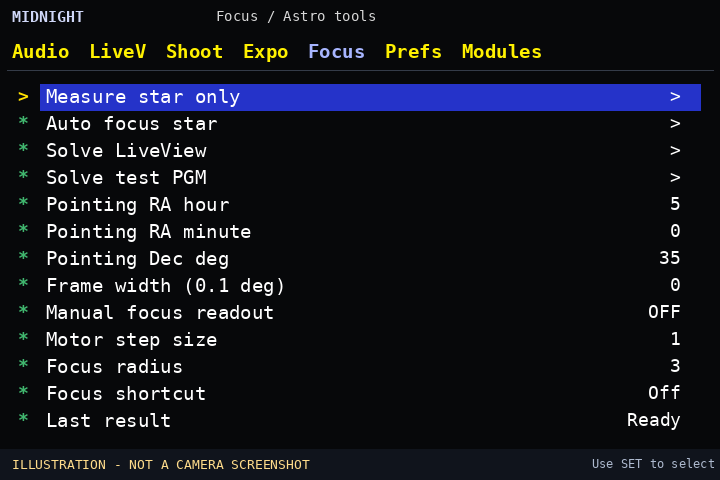
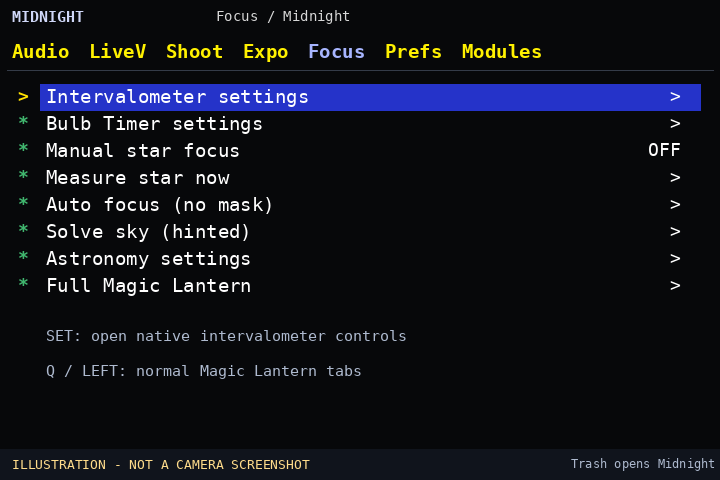
Open astronomy-first Midnight menu, link intervalometer and bulb timer, document blind-solve limitations

diff --git a/modules/astro/astro.c b/modules/astro/astro.c
@@ -329,6 +329,24 @@ static void start_action(int action)
         busy=0;
     }
 }
+/* Jump to the original Magic Lantern controls. Never duplicate its
+ * intervalometer/long-exposure config or replace the core shooting logic.
+ * Q/back from these submenus returns to their native tabs. */
+static MENU_SELECT_FUNC(open_intervalometer)
+{
+    select_menu_by_name("Intervalometer","Take a pic every");
+    menu_redraw();
+}
+static MENU_SELECT_FUNC(open_bulb_timer)
+{
+    select_menu_by_name("Bulb Timer","Exposure duration");
+    menu_redraw();
+}
+static MENU_SELECT_FUNC(open_normal_menus)
+{
+    select_menu_by_name("Shoot","Intervalometer");
+    menu_redraw();
+}
 static MENU_SELECT_FUNC(start_focus) { start_action(1); }
 static MENU_SELECT_FUNC(start_solve) { start_action(2); }
 static MENU_SELECT_FUNC(start_test) { start_action(3); }
@@ -354,37 +372,50 @@ static unsigned int astro_keypress(unsigned int key)
 }
 static struct menu_entry astro_menu[] = {
     {
-        .name="Astro tools",
-        .help="Experimental star autofocus and hinted plate solving.",
+        .name="Midnight",
+        .help="Astrophotography home. Q/LEFT returns to the standard tabs.",
         .children=(struct menu_entry[]) {
-            { .name="Measure star only", .select=start_measure,
-              .help="Read-only star detection and sharpness, no motor movement.",
+            { .name="Intervalometer settings", .select=open_intervalometer,
+              .help="Jump to ML's existing intervalometer and exposure interval.",
               .icon_type=IT_ACTION },
-            { .name="Auto focus star", .select=start_focus,
-              .help="5x/10x LiveView, bright centered star, lens AF switch ON.",
+            { .name="Bulb Timer settings", .select=open_bulb_timer,
+              .help="Jump to ML's existing bulb exposure timer.",
               .icon_type=IT_ACTION },
-            { .name="Solve LiveView", .select=start_solve,
-              .help="Use 1x LiveView; enter approximate RA/Dec and FOV first.",
+            { .name="Manual star focus", .priv=&focus_overlay,.min=0,.max=1,
+              .help="LiveView sharpness score, no motor. Use a bright star at 5x/10x." },
+            { .name="Measure star now", .select=start_measure,
+              .help="Read-only one-shot sharpness check; never moves a lens.",
               .icon_type=IT_ACTION },
-            { .name="Solve test PGM", .select=start_test,
-              .help="Load B:/ML/ASTRO/TEST.PGM and STARS.BIN.",
+            { .name="Auto focus (no mask)", .select=start_focus,
+              .help="Electronic lens only; uses star sharpness, NOT Bahtinov spikes.",
               .icon_type=IT_ACTION },
-            { .name="Pointing RA hour", .priv=&hint_rah, .min=0,.max=23 },
-            { .name="Pointing RA minute", .priv=&hint_ram,.min=0,.max=59 },
-            { .name="Pointing Dec deg", .priv=&hint_dec,.min=-85,.max=85 },
-            { .name="Frame width (0.1 deg)",.priv=&fov10,.min=0,.max=300,
-              .help="0 = auto from lens metadata. Otherwise set manual 1-30 deg." },
-            { .name="Manual focus readout",.priv=&focus_overlay,.min=0,.max=1,
-              .help="Measure one star each second. No AF motor required." },
-            { .name="Motor step size",.priv=&focus_step,.min=1,.max=3 },
-            { .name="Focus radius",.priv=&scan_radius,.min=1,.max=6 },
-            { .name="Focus shortcut",.priv=&shortcut,.min=0,.max=2,
-              .choices=CHOICES("Off","Double half-press","INFO button"),
-              .help="OFF by default. Disable conflicting shortcut features." },
-            { .name="Last result",.update=astro_status,.icon_type=IT_ACTION },
+            { .name="Solve sky (hinted)", .select=start_solve,
+              .help="Current solver still requires a rough RA/Dec hint. Blind solving under development.",
+              .icon_type=IT_ACTION },
+            { .name="Astronomy settings", .children=(struct menu_entry[]) {
+                { .name="Solve test PGM", .select=start_test,
+                  .help="Use the included synthetic image to test the solver.",
+                  .icon_type=IT_ACTION },
+                { .name="Pointing RA hour", .priv=&hint_rah, .min=0,.max=23 },
+                { .name="Pointing RA minute", .priv=&hint_ram,.min=0,.max=59 },
+                { .name="Pointing Dec deg", .priv=&hint_dec,.min=-85,.max=85 },
+                { .name="Frame width (0.1 deg)",.priv=&fov10,.min=0,.max=300,
+                  .help="0=auto if the lens reports focal length. Otherwise set manual 1-30 deg." },
+                { .name="Motor step size",.priv=&focus_step,.min=1,.max=3 },
+                { .name="Focus radius",.priv=&scan_radius,.min=1,.max=6 },
+                { .name="Focus shortcut",.priv=&shortcut,.min=0,.max=2,
+                  .choices=CHOICES("Off","Double half-press","INFO button"),
+                  .help="OFF by default; avoid conflicts with standard controls." },
+                { .name="Last result",.update=astro_status,.icon_type=IT_ACTION },
+                MENU_EOL
+            } },
+            { .name="Full Magic Lantern", .select=open_normal_menus,
+              .help="Leave the Midnight dashboard and show the original shooting menus.",
+              .icon_type=IT_ACTION },
             MENU_EOL
         },
-        .icon_type=IT_SUBMENU
+        .icon_type=IT_SUBMENU,
+        .submenu_width=710,
     },
 };
 static unsigned int astro_init(void)

diff --git a/README.md b/README.md
@@ -1,66 +1,66 @@
 # Midnight
 
-Star focusing and plate solving for [Magic Lantern](https://github.com/reticulatedpines/magiclantern_simplified) on **Canon 600D (firmware 1.0.2)** and **Canon 6D (firmware 1.1.6)**.
+An astronomy-first interface for [Magic Lantern](https://github.com/reticulatedpines/magiclantern_simplified) on **Canon 600D (1.0.2)** and **Canon 6D (1.1.6)**.
 
-> **Experimental:** Neither camera has been hardware-tested. Use a spare SD card and keep your working Magic Lantern card unchanged. Start with the read-only focusing tools.
+**Experimental:** Not tested on physical cameras. Use a spare SD card and keep your existing working Magic Lantern card.
 
 ## Install
 
-1. On the camera, check **Menu → Firmware Ver.** Only the versions above are supported.
-2. Back up your card. Download the matching ZIP from the [Midnight release](https://github.com/mistrjirka/midnight/releases/tag/v0.1.0-alpha.1).
-3. **Already using Magic Lantern?** Extract the **entire ZIP** to the root of a **spare Magic Lantern-bootable SD card**, replacing the existing Magic Lantern files. Do not run the installer again.
-4. **Starting with a new card?** Format the spare SD card in the camera, extract the ZIP to its root, then run **Menu → Firmware Ver. → Firmware Update** in **M mode** to start the included **ML-SETUP.FIR**. Follow the installer instructions and restart. This is Magic Lantern setup, not a Canon firmware upgrade.
-5. Open Magic Lantern with the **Delete/Trash** button. Under **Modules**, enable **astro**, then restart the camera.
+1. Check your camera version under **Canon MENU → Firmware Ver.**
+2. Download the matching ZIP from the [Midnight release](https://github.com/mistrjirka/midnight/releases/tag/v0.2.0-alpha.1).
+3. **Already have Magic Lantern?** Extract the **entire ZIP** onto a spare, bootable Magic Lantern SD card. Replace the existing Magic Lantern files. Do not rerun the installer.
+4. **Fresh card?** Format it in the camera, extract the ZIP at the SD-card root, then use **MENU → Firmware Ver. → Firmware Update** in **M mode** to run **ML-SETUP.FIR**. Follow its instructions and restart. This installs the Magic Lantern boot setup, not a Canon firmware update.
+5. Press **Trash/Delete** to open Magic Lantern, enable **astro** in **Modules**, and restart.
 
-The ZIP already contains **astro.mo**, the matching camera symbol file, the star catalog (**ML/ASTRO/STARS.BIN**), and a test image. Do not copy just the module into an unrelated Magic Lantern build.
+**After enabling astro, Trash opens Midnight first.** The original Magic Lantern menus are still available by pressing **Q/Left** or choosing **Full Magic Lantern**. Shutter, playback and essential Canon buttons remain unchanged.
 
-## Use the new features
+## Midnight home menu
 
-Open **Magic Lantern → Focus → Astro tools**.
+<img src="docs/images/astro-tools-menu.png" alt="Mockup of Midnight dashboard with intervalometer, bulb timer, focus and plate solving" width="600">
 
-<img src="docs/images/astro-tools-menu.png" alt="Illustrated Astro tools menu showing the feature names" width="600">
+*UI illustrations, not photos from a real camera.*
 
-*The interface images below are mockups based on the implemented UI. They are not screenshots from a physical camera.*
+| Option | What it does |
+|---|---|
+| **Intervalometer settings** | Opens Magic Lantern's existing interval, start trigger and shot-count controls |
+| **Bulb Timer settings** | Opens its long-exposure duration and display controls |
+| **Manual star focus** | Toggles a live sharpness score. Works with manual lenses |
+| **Measure star now** | Measures focus once without moving the lens |
+| **Auto focus (no mask)** | Tries small electronic focus steps on a bright star |
+| **Solve sky (hinted)** | Finds pointing coordinates using a rough initial sky position |
+| **Astronomy settings** | Advanced focus settings, pointing hint, lens FOV and test image |
+| **Full Magic Lantern** | Returns to the normal shooting menus |
 
-### Manual star focusing (works without autofocus)
+### Manual focusing
 
-1. Enable **Live View** and zoom to **5× or 10×** on a bright star.
-2. Enable **Manual focus readout** in Astro tools.
-3. Turn the focus ring until the on-screen **Star focus** value is as low as possible.
+1. Center a bright star and open **5×/10× Live View**.
+2. Turn **Manual star focus** on, then leave the menu.
+3. Adjust focus for the **lowest Star focus value**. It updates about once per second. Compare the *same star* at the *same zoom*.
 
-The value refreshes about once per second. Compare it only for the **same star and zoom level**. If you see **No star**, choose a brighter star or improve its visibility. For a one-time reading without the overlay, select **Measure star only**. Neither option moves the lens motor.
+<img src="docs/images/manual-focus-preview.png" alt="Illustration of a star and the on-screen focus score" width="600">
 
-<img src="docs/images/manual-focus-preview.png" alt="Illustrative Live View with a star sharpness score" width="600">
+**Bahtinov mask:** You can place the mask over the front of the lens and visually center the middle diffraction spike between the two diagonal spikes. Remove the mask before imaging. **Midnight does not yet measure spike alignment.** Its numeric focus score measures star size without a mask.
 
-### Automatic star focusing
+### Automatic focusing
 
-1. Center a bright star in **5×/10× Live View**.
-2. Set the lens switch to **AF** and turn off continuous/servo AF.
-3. Select **Auto focus star**. The camera makes small electronic focus steps, measures the same star, then reports a result.
+Center a bright star at **5×/10×**, set the lens to **AF**, disable continuous/servo AF, then select **Auto focus (no mask)**. The routine attempts small movements and stops if communication or position confirmation fails. Start with **Motor step size = 1** and **Focus radius = 3** under **Astronomy settings**.
 
-The routine stops when it cannot confirm lens movement or loses the star. **Motor behavior is still untested on physical cameras**, so use this only after confirming safe operation with your lens. Start with **Motor step size = 1** and **Focus radius = 3**.
+**The focus motor has not been tested on a real camera.** Keep **Focus shortcut = Off** until the lens is validated. INFO and double half-press can be enabled later, but may conflict with other controls.
 
-**Focus shortcut** defaults to **Off**. You can optionally choose **INFO button** or **Double half-press**. Avoid conflicts with Trap Focus or other button assignments.
+### Plate solving
 
-### Plate solving (find where the camera points)
+Use **1× Live View** with enough visible stars. Set approximate **Pointing RA hour**, **RA minute** and **Dec deg** under **Astronomy settings**. Read the approximate location in Stellarium. Leave **Frame width (0.1 deg) = 0** to use an electronic lens's focal length, or enter the field width for a manual lens. Select **Solve sky (hinted)** and read **Last result** in the settings submenu.
 
-1. Use **1× Live View** with several visible stars.
-2. Set an approximate sky position using **Pointing RA hour**, **Pointing RA minute**, and **Pointing Dec deg**. You can find these values in Stellarium.
-3. Leave **Frame width (0.1 deg) = 0** to estimate field of view from an electronic lens. For a manual lens, enter the horizontal width in tenths of a degree, for example **64 = 6.4°**.
-4. Select **Solve LiveView** and check **Last result** for RA/Dec.
+<img src="docs/images/plate-solving-preview.png" alt="Illustrative pointing result, with rough RA and Dec hint" width="600">
 
-<img src="docs/images/plate-solving-preview.png" alt="Illustrative plate-solving coordinates shown in Astro tools" width="600">
+**Blind solving is not ready yet.** A first all-sky index failed 3 of 5 synthetic test fields, so it is not enabled. The current solver also uses Live View rather than long RAW exposures and may miss faint stars. [Blind-solving research](docs/BLIND_PLATE_SOLVING.md).
 
-**Test without the sky:** Select **Solve test PGM** with RA **05:00**, Dec **+35°**, and frame width **64** (or leave it at 0 for this built-in test). The test image is included in the ZIP.
+**Offline test:** Choose **Astronomy settings → Solve test PGM** with RA **05:00**, Dec **+35°**, and field width **64**. The included test image needs no sky or lens.
 
-This is **hinted plate solving**, not blind solving. It uses ordinary Live View, **not a long-exposure RAW image**. Faint star fields may not contain enough visible stars to solve.
+## Troubleshooting
 
-## If the camera does not boot
+If the camera does not start, turn it off, remove the SD card and try booting without it. If necessary, remove and reinsert the battery without the card. Restore your known-working card. **Do not delete autoexec.bin from a bootable Magic Lantern card.**
 
-Turn it off, remove the SD card, and try starting without it. If necessary, remove and reinsert the battery with the card removed. Return to your known-working SD card. Do **not** remove **autoexec.bin** from a bootable Magic Lantern card.
+[Development details](ASTRO_DEVELOPMENT.md) · [Build from source](scripts/build.sh)
 
-## For developers
-
-[Source, build instructions, tests, and limitations](ASTRO_DEVELOPMENT.md) · [Reproducible build script](scripts/build.sh)
-
-Midnight and Magic Lantern code: GPL-2.0-or-later. Star catalog: HYG v4.1, David Nash / Astronexus, CC BY-SA 4.0.
+Midnight and Magic Lantern: GPL-2.0-or-later. HYG star catalog: David Nash / Astronexus, CC BY-SA 4.0.

diff --git a/modules/astro/docs/USAGE.rst b/modules/astro/docs/USAGE.rst
@@ -14,7 +14,7 @@ Features:
 - Optional double half-shutter press or INFO shortcut for focus.
 - PGM input for QEMU and repeatable tests.
 
-The module does not alter the original Trap Focus feature.
+The module does not alter the original Trap Focus feature.\nTrash/Delete now opens Midnight first while the module is enabled.
 
 Camera models: 600D firmware 1.0.2 and 6D firmware 1.1.6 only.
 
@@ -23,15 +23,15 @@ Quick start
 
 1. Install only with matching same-checkout camera firmware and symbol file.
 2. Copy STARS.BIN generated from HYG v4.1 into ML/ASTRO/.
-3. Enable astro in the Modules tab, then open Focus > Astro tools.
-4. Select Measure star only at 5x/10x LiveView first. No lens movement.
-5. For actual autofocus set the lens to AF, disable continuous AF, center
-   a bright star and select Auto focus star. This action moves the lens.
+3. Enable astro in the Modules tab, restart, then press Trash > Midnight.
+4. Select Measure star now at 5x/10x LiveView first. No lens movement.
+5. For actual autofocus (no Bahtinov mask) set the lens to AF, disable continuous AF, center
+   a bright star and select Auto focus (no mask). This action moves the lens.
 6. For plate solving, use 1x LiveView and set pointing RA and Dec
    approximately (within several degrees), plus frame FOV width.
    600D at 200mm: 6.4 deg. 6D at 200mm: 10.3 deg.
 7. For deterministic QEMU tests place TEST.PGM (P5, 360x240) alongside
-   STARS.BIN and choose Solve test PGM.
+   STARS.BIN and choose Astronomy settings > Solve test PGM.
 8. Focus shortcut is off by default. Trap Focus remains unmodified.
 
 Important: the YUV LiveView feed is NOT a long exposure. Most deep-sky
@@ -77,3 +77,20 @@ LiveView frames and random sensor noise. Real-image smoke tests used:
 These are processed as 8-bit test images by the same C code.
 Mask-spike intersection/offset analysis and full-resolution CR2 decoding
 ON CAMERA are not implemented.
+
+Midnight home menu
+------------------
+
+- Intervalometer settings: original Magic Lantern interval controls.
+- Bulb Timer settings: original Magic Lantern bulb controls.
+- Manual star focus: toggle LiveView sharpness score.
+- Measure star now: one-shot, read-only sharpness check.
+- Auto focus (no mask): electronic focus steps and star size.
+- Solve sky (hinted): current RA/Dec solver.
+- Astronomy settings: more options and offline test image.
+- Full Magic Lantern: back to the standard menus.
+
+Trash/Delete opens Midnight after enabling the module; Q/Left backs out
+to the native tabs. No camera buttons are removed. A Bahtinov mask can
+still be used visually, but the spike-alignment algorithm is NOT
+implemented and the numeric star-size score assumes no mask.

diff --git a/ASTRO_DEVELOPMENT.md b/ASTRO_DEVELOPMENT.md
@@ -34,14 +34,14 @@ python3 modules/astro/tools/package.py 6D.116 .astro-data/STARS.BIN
    card. Preserve the existing known-good card. Do not use firmware for a
    different camera or firmware version.
 3. Enable `astro` in the Magic Lantern **Modules** tab, then restart.
-4. Open **Focus > Astro tools > Measure star only**.
+4. Open **Trash > Midnight > Measure star now**.
    This examines Live View and DOES NOT drive the lens.
 5. **Solve test PGM** loads the synthetic `ML/ASTRO/TEST.PGM` from the SD
    card. Set hint RA **05:00**, Dec **+35°** and FOV **6.4°**.
-6. **Solve LiveView** instead uses the live sensor preview (not a long
+6. **Solve sky (hinted)** instead uses the live sensor preview (not a long
    exposure). Set actual focal length FOV and approximate RA/Dec. It needs
    at least eight detected/matched stars.
-7. **Auto focus star** moves an electronically driven lens and is **not
+7. **Auto focus (no mask)** moves an electronically driven lens and is **not
    tested on hardware**. Inspect firmware compatibility and lens behavior
    before exercising it. The autofocus switch must be in AF mode and
    continuous AF disabled. Focus with a bright star in magnified LiveView.
@@ -96,3 +96,22 @@ The tests convert these files to 360x240 8-bit input, then invoke the
 same portable C functions as the ARM module. We tested star detection
 and relative focus scoring, not on-camera CR2 decoding or Bahtinov
 spike geometry. HYG-generated fields remain the only plate-solve tests.
+
+## Midnight UI
+
+When the astro module is enabled, Delete/Trash opens the Midnight
+dashboard by default. It links to the original Magic Lantern Intervalometer
+and Bulb Timer controls (no shooting settings are duplicated).
+A Full Magic Lantern entry navigates to the original Shoot tab, and
+Q/LEFT closes the dashboard into the regular tabs.
+Without the module enabled, standard Magic Lantern menu behavior remains.
+
+The current focus metric measures the apparent radius of a star. It
+does not calculate a Bahtinov mask's central-spike offset.
+Use autofocus without the mask and remove any mask before imaging.
+A separate spike detection method needs to be implemented and tested.
+
+The current plate solver is still hinted. Initial all-sky triangle voting
+(541,148 patterns built from HYG stars to magnitude 7.5) ranked the
+correct sky patch first on only 2/5 synthetic fields. It was NOT
+integrated into the firmware. See docs/BLIND_PLATE_SOLVING.md.

diff --git a/docs/BLIND_PLATE_SOLVING.md b/docs/BLIND_PLATE_SOLVING.md
@@ -1,0 +1,45 @@
+# Blind plate solving on Canon 600D and 6D
+
+## Desired behavior
+
+Point the camera anywhere, select "Solve sky", and see RA/Dec without
+entering a starting sky position. Use the lens-reported focal length
+and camera sensor width to estimate image field of view, or let users
+enter the focal length / FOV for unchipped lenses.
+
+## Research and test results
+
+- ESA [tetra3](https://github.com/esa/tetra3) demonstrates lost-in-space
+  (blind) star-field solving using precomputed four-star geometry. The
+  default data covers 10-30 degree FOV; a new database can be built for
+  a few-degree FOV. Desktop timing claims do NOT represent Canon DIGIC.
+- [Astrometry.net](https://astrometry.net/doc/build-index.html) uses
+  quad-pattern index files organized by angular scale. Its standard
+  indexes/solver are not lightweight enough to embed unchanged here.
+- Our native current solver needs an approximate position and >=8
+  matching stars. It has not been validated on real photographic skies.
+- Exploratory test 2026-11-08: used 26,824 HYG stars to approx mag 7.5
+  and generated 541,148 geometric triangle patterns (50,306 occupied
+  0.04-degree distance bins). Naive triangle voting selected the right
+  sky patch as first choice in 2/5 synthetic scenes. It failed in
+  3/5. This is NOT sufficient for production use.
+- A packed reference index could stay on SD card rather than RAM.
+  Actual memory, SD bandwidth and processing time must be measured.
+
+## Required implementation before user access
+
+1. Acquire an image with enough detectable stars. Ordinary Canon LiveView
+   is likely too dark for narrowband or faint star fields. Prototype a
+   safe long-exposure RAW or multi-frame LiveView pipeline.
+2. Port or implement a tested four-star all-sky index and pattern lookup
+   in portable C, with a bounded RAM cache and SD streaming.
+3. Verify solutions with at least eight independent stars, multiple
+   pattern votes, plausible geometry and low RMS error.
+4. Test with both 600D (6.4 x 4.3 deg at 200 mm) and 6D (10.3 x 6.9 deg
+   at 200 mm), wide and narrow fields, rotations, hot pixels and dust.
+5. Benchmark on camera. If it cannot solve quickly enough, offer a
+   cancelable operation and a useful timeout. Never display a guess
+   as a valid position.
+
+Current release intentionally retains "Solve sky (hinted)" and hides
+the manual RA/Dec entries under "Astronomy settings".
